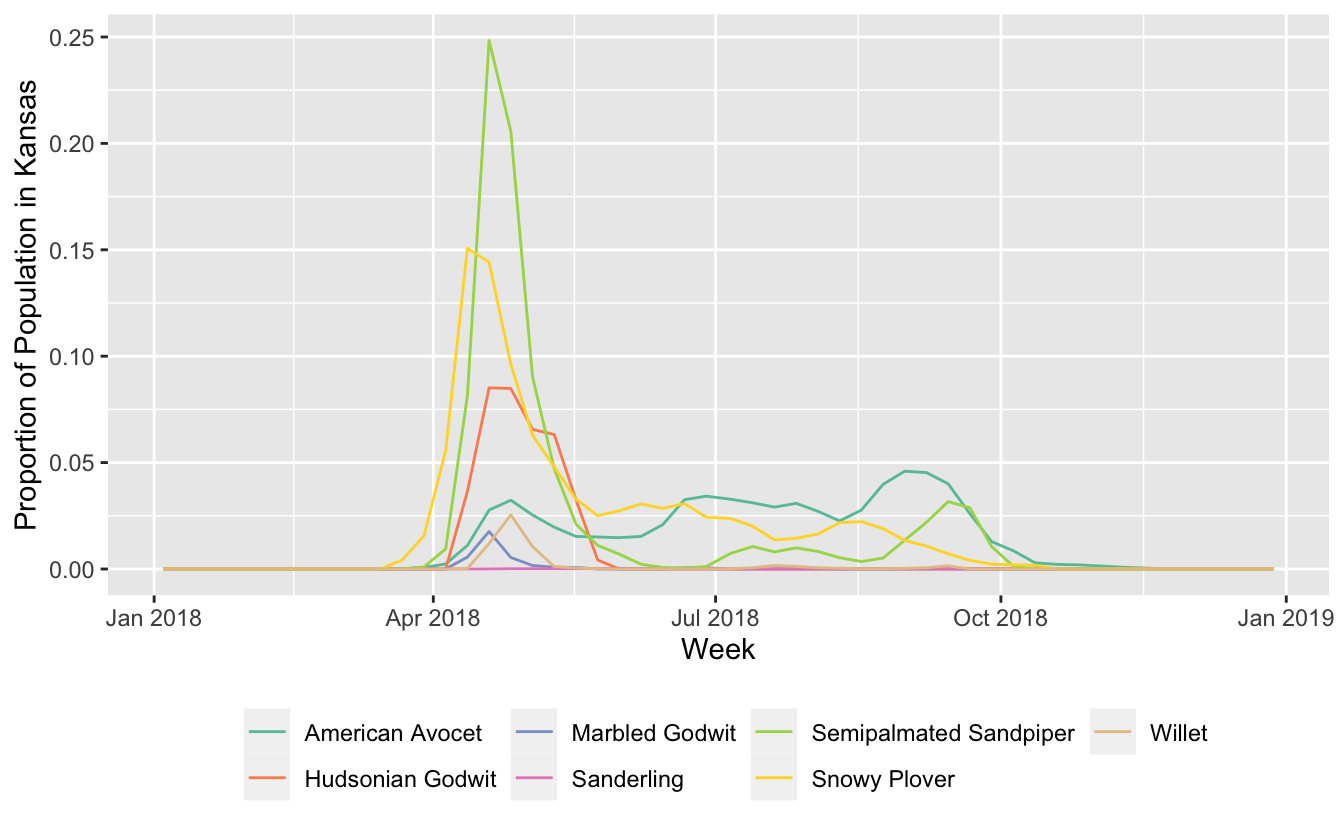
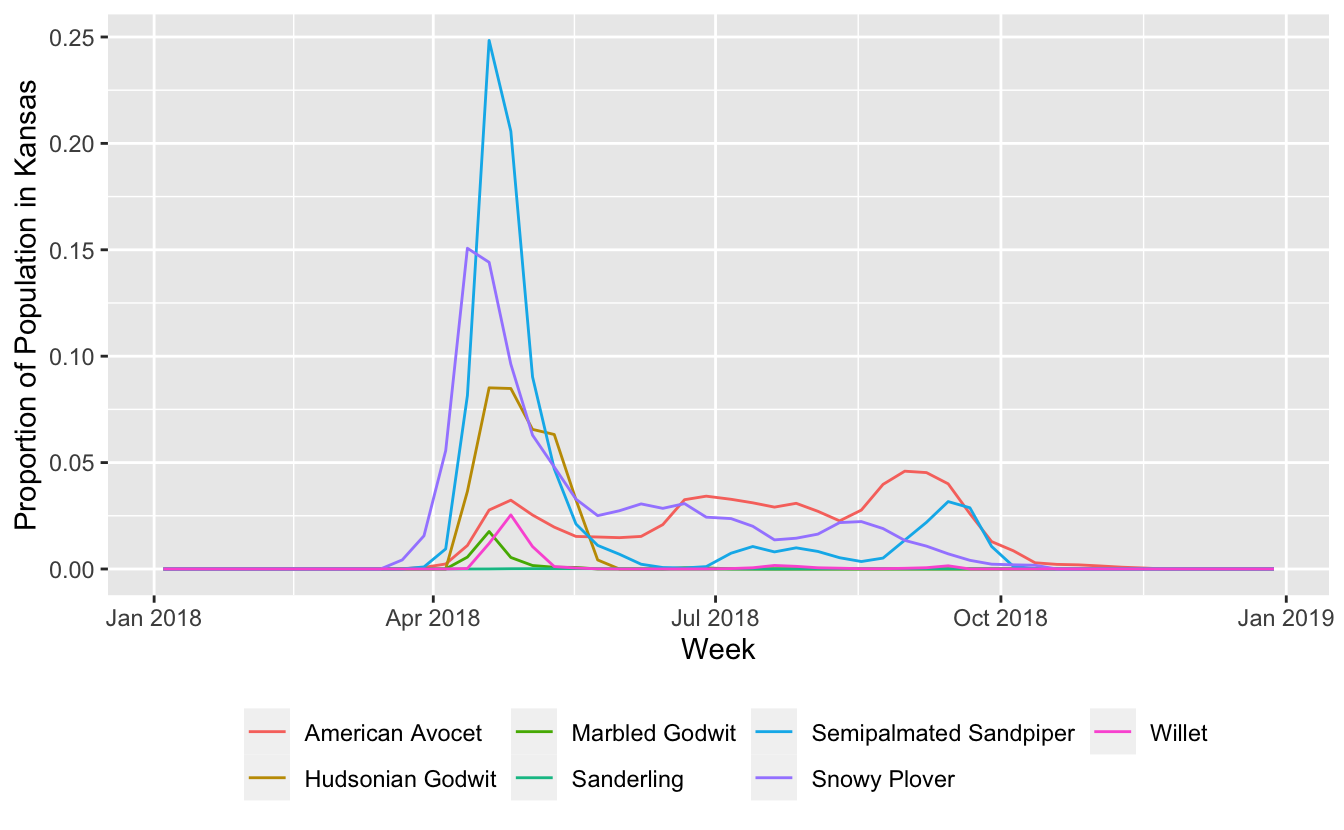
first draft done

diff --git a/docs/multi-species-trajectories.html b/docs/multi-species-trajectories.html
@@ -183,69 +183,78 @@ code span.wa { color: #60a0b0; font-weight: bold; font-style: italic; } /* Warni
 <h1><span class="header-section-number">Chapter 3</span> Multi-species Trajectories</h1>
 <div id="traj-objective" class="section level2">
 <h2><span class="header-section-number">3.1</span> Objective</h2>
-<p>To prepare data for multiple species and look at them both spatially and temporally, as species richness and proportion of population. This is an example of something you might do when prioritizing or targeting conservation and management of species groups.</p>
+<p>To prepare data for comparing Status and Trends data across multiple species. We’ll compute proportion of population trajectories for a suite of species.</p>
 </div>
 <div id="traj-intro" class="section level2">
 <h2><span class="header-section-number">3.2</span> Introduction</h2>
+<p>Comparing Status and Trends results between species requires extra caution because the models give <em>relative</em> rather than absolute abundance. Therefore the raw data cannot be directly compared between species because, for example, species differ in their detectability. To address this, we’ll convert relative abundance to proportion of population for each species by dividing by the total abundance summed across the entire range. In addition, in this lesson we’ll look at the temporal dimension of these data, plotting trajectories through time for a given region.</p>
+<p>Let’s start by loading the necessary packages for this lesson.</p>
 <div class="sourceCode" id="cb26"><pre class="sourceCode r"><code class="sourceCode r"><span id="cb26-1"><a href="multi-species-trajectories.html#cb26-1"></a><span class="kw">library</span>(ebirdst)</span>
 <span id="cb26-2"><a href="multi-species-trajectories.html#cb26-2"></a><span class="kw">library</span>(raster)</span>
 <span id="cb26-3"><a href="multi-species-trajectories.html#cb26-3"></a><span class="kw">library</span>(sf)</span>
 <span id="cb26-4"><a href="multi-species-trajectories.html#cb26-4"></a><span class="kw">library</span>(rnaturalearth)</span>
 <span id="cb26-5"><a href="multi-species-trajectories.html#cb26-5"></a><span class="kw">library</span>(tidyverse)</span>
 <span id="cb26-6"><a href="multi-species-trajectories.html#cb26-6"></a><span class="kw">library</span>(parallel)</span>
-<span id="cb26-7"><a href="multi-species-trajectories.html#cb26-7"></a>extract &lt;-<span class="st"> </span>raster<span class="op">::</span>extract</span>
-<span id="cb26-8"><a href="multi-species-trajectories.html#cb26-8"></a></span>
-<span id="cb26-9"><a href="multi-species-trajectories.html#cb26-9"></a><span class="co"># kansas boundary</span></span>
-<span id="cb26-10"><a href="multi-species-trajectories.html#cb26-10"></a>ks &lt;-<span class="st"> </span><span class="kw">ne_states</span>(<span class="dt">iso_a2 =</span> <span class="st">&quot;US&quot;</span>, <span class="dt">returnclass =</span> <span class="st">&quot;sf&quot;</span>) <span class="op">%&gt;%</span><span class="st"> </span></span>
-<span id="cb26-11"><a href="multi-species-trajectories.html#cb26-11"></a><span class="st">  </span><span class="kw">filter</span>(name <span class="op">==</span><span class="st"> &quot;Kansas&quot;</span>)</span></code></pre></div>
+<span id="cb26-7"><a href="multi-species-trajectories.html#cb26-7"></a>extract &lt;-<span class="st"> </span>raster<span class="op">::</span>extract</span></code></pre></div>
+<p>For this example, we’ll be looking at a suite of shorebird species in Kansas, so let’s also get a boundary polygon for that state.</p>
+<div class="sourceCode" id="cb27"><pre class="sourceCode r"><code class="sourceCode r"><span id="cb27-1"><a href="multi-species-trajectories.html#cb27-1"></a>ks &lt;-<span class="st"> </span><span class="kw">ne_states</span>(<span class="dt">iso_a2 =</span> <span class="st">&quot;US&quot;</span>, <span class="dt">returnclass =</span> <span class="st">&quot;sf&quot;</span>) <span class="op">%&gt;%</span><span class="st"> </span></span>
+<span id="cb27-2"><a href="multi-species-trajectories.html#cb27-2"></a><span class="st">  </span><span class="kw">filter</span>(name <span class="op">==</span><span class="st"> &quot;Kansas&quot;</span>)</span></code></pre></div>
 </div>
 <div id="traj-data" class="section level2">
 <h2><span class="header-section-number">3.3</span> Multi-species data</h2>
-<div class="sourceCode" id="cb27"><pre class="sourceCode r"><code class="sourceCode r"><span id="cb27-1"><a href="multi-species-trajectories.html#cb27-1"></a>species &lt;-<span class="st"> </span><span class="kw">c</span>(<span class="st">&quot;American Avocet&quot;</span>, <span class="st">&quot;Snowy Plover&quot;</span>, <span class="st">&quot;Hudsonian Godwit&quot;</span>, </span>
-<span id="cb27-2"><a href="multi-species-trajectories.html#cb27-2"></a>             <span class="st">&quot;Willet&quot;</span>, <span class="st">&quot;Marbled Godwit&quot;</span>, <span class="st">&quot;Sanderling&quot;</span>, </span>
-<span id="cb27-3"><a href="multi-species-trajectories.html#cb27-3"></a>             <span class="st">&quot;Semipalmated Sandpiper&quot;</span>)</span>
-<span id="cb27-4"><a href="multi-species-trajectories.html#cb27-4"></a>sp_dirs &lt;-<span class="st"> </span><span class="kw">map_chr</span>(species, ebirdst_download)</span></code></pre></div>
+<p>We begin by downloading data for a suite of 7 shorebird species that all spend at least a portion of the year within Kansas.</p>
+<div class="sourceCode" id="cb28"><pre class="sourceCode r"><code class="sourceCode r"><span id="cb28-1"><a href="multi-species-trajectories.html#cb28-1"></a>species &lt;-<span class="st"> </span><span class="kw">c</span>(<span class="st">&quot;American Avocet&quot;</span>, <span class="st">&quot;Snowy Plover&quot;</span>, <span class="st">&quot;Hudsonian Godwit&quot;</span>, </span>
+<span id="cb28-2"><a href="multi-species-trajectories.html#cb28-2"></a>             <span class="st">&quot;Willet&quot;</span>, <span class="st">&quot;Marbled Godwit&quot;</span>, <span class="st">&quot;Sanderling&quot;</span>, </span>
+<span id="cb28-3"><a href="multi-species-trajectories.html#cb28-3"></a>             <span class="st">&quot;Semipalmated Sandpiper&quot;</span>)</span>
+<span id="cb28-4"><a href="multi-species-trajectories.html#cb28-4"></a>sp_dirs &lt;-<span class="st"> </span><span class="kw">map_chr</span>(species, ebirdst_download)</span></code></pre></div>
 </div>
 <div id="traj-pop" class="section level2">
 <h2><span class="header-section-number">3.4</span> Proportion of population</h2>
-<div class="sourceCode" id="cb28"><pre class="sourceCode r"><code class="sourceCode r"><span id="cb28-1"><a href="multi-species-trajectories.html#cb28-1"></a>calculate_trajectory &lt;-<span class="st"> </span><span class="cf">function</span>(x, common_name, region) {</span>
-<span id="cb28-2"><a href="multi-species-trajectories.html#cb28-2"></a>  <span class="kw">message</span>(<span class="kw">names</span>(x))</span>
-<span id="cb28-3"><a href="multi-species-trajectories.html#cb28-3"></a>  <span class="co"># load and project weekly abundance</span></span>
-<span id="cb28-4"><a href="multi-species-trajectories.html#cb28-4"></a>  abd &lt;-<span class="st"> </span><span class="kw">load_raster</span>(<span class="st">&quot;abundance&quot;</span>, <span class="dt">path =</span> x)</span>
-<span id="cb28-5"><a href="multi-species-trajectories.html#cb28-5"></a>  r &lt;-<span class="st"> </span><span class="kw">st_transform</span>(region, <span class="dt">crs =</span> <span class="kw">st_crs</span>(abd))</span>
-<span id="cb28-6"><a href="multi-species-trajectories.html#cb28-6"></a>  </span>
-<span id="cb28-7"><a href="multi-species-trajectories.html#cb28-7"></a>  <span class="co"># total abundance within region</span></span>
-<span id="cb28-8"><a href="multi-species-trajectories.html#cb28-8"></a>  abd_region &lt;-<span class="st"> </span>abd <span class="op">%&gt;%</span><span class="st"> </span></span>
-<span id="cb28-9"><a href="multi-species-trajectories.html#cb28-9"></a><span class="st">    </span><span class="kw">crop</span>(r) <span class="op">%&gt;%</span><span class="st"> </span></span>
-<span id="cb28-10"><a href="multi-species-trajectories.html#cb28-10"></a><span class="st">    </span><span class="kw">extract</span>(r, <span class="dt">fun =</span> sum)</span>
-<span id="cb28-11"><a href="multi-species-trajectories.html#cb28-11"></a>  abd_region &lt;-<span class="st"> </span>abd_region[<span class="dv">1</span>, , drop =<span class="st"> </span><span class="ot">TRUE</span>]</span>
-<span id="cb28-12"><a href="multi-species-trajectories.html#cb28-12"></a>  </span>
-<span id="cb28-13"><a href="multi-species-trajectories.html#cb28-13"></a>  <span class="co"># calculate total range-wide abundance</span></span>
-<span id="cb28-14"><a href="multi-species-trajectories.html#cb28-14"></a>  abd_total &lt;-<span class="st"> </span><span class="kw">mclapply</span>(<span class="kw">seq.int</span>(<span class="kw">nlayers</span>(abd)),</span>
-<span id="cb28-15"><a href="multi-species-trajectories.html#cb28-15"></a>                        <span class="cf">function</span>(i) <span class="kw">cellStats</span>(abd[[i]], sum),</span>
-<span id="cb28-16"><a href="multi-species-trajectories.html#cb28-16"></a>                        <span class="dt">mc.preschedule =</span> <span class="ot">TRUE</span>, <span class="dt">mc.set.seed =</span> <span class="ot">TRUE</span>, </span>
-<span id="cb28-17"><a href="multi-species-trajectories.html#cb28-17"></a>                        <span class="dt">mc.cores =</span> <span class="kw">detectCores</span>()) <span class="op">%&gt;%</span><span class="st"> </span></span>
-<span id="cb28-18"><a href="multi-species-trajectories.html#cb28-18"></a><span class="st">    </span><span class="kw">unlist</span>()</span>
-<span id="cb28-19"><a href="multi-species-trajectories.html#cb28-19"></a>  </span>
-<span id="cb28-20"><a href="multi-species-trajectories.html#cb28-20"></a>  <span class="kw">data.frame</span>(<span class="dt">common_name =</span> common_name,</span>
-<span id="cb28-21"><a href="multi-species-trajectories.html#cb28-21"></a>             <span class="dt">date =</span> <span class="kw">parse_raster_dates</span>(abd),</span>
-<span id="cb28-22"><a href="multi-species-trajectories.html#cb28-22"></a>             <span class="dt">prop_pop =</span> abd_region <span class="op">/</span><span class="st"> </span>abd_total,</span>
-<span id="cb28-23"><a href="multi-species-trajectories.html#cb28-23"></a>             <span class="dt">row.names =</span> <span class="ot">NULL</span>)</span>
-<span id="cb28-24"><a href="multi-species-trajectories.html#cb28-24"></a>}</span>
-<span id="cb28-25"><a href="multi-species-trajectories.html#cb28-25"></a>trajectories &lt;-<span class="st"> </span><span class="kw">map2_dfr</span>(sp_dirs, <span class="kw">names</span>(sp_dirs), </span>
-<span id="cb28-26"><a href="multi-species-trajectories.html#cb28-26"></a>                         calculate_trajectory,</span>
-<span id="cb28-27"><a href="multi-species-trajectories.html#cb28-27"></a>                         <span class="dt">region =</span> ks)</span>
-<span id="cb28-28"><a href="multi-species-trajectories.html#cb28-28"></a><span class="kw">write_csv</span>(trajectories,  <span class="st">&quot;data/shorebird_pop-trajectories.csv&quot;</span>)</span></code></pre></div>
+<p>Our goal is to produce trajectories comparing the proportion of each species’ population within Kansas. For each species we need to:</p>
+<ol style="list-style-type: decimal">
+<li>Calculate the sum of the abundance within Kansas for each week</li>
+<li>Calculate the sum of the abundance across the entire range of the species for each week</li>
+<li>Calculate the proportion of the population as the ratio of the within Kansas abundance to the total abundance</li>
+</ol>
+<p>The below function performs these steps for a given species. Iterating over the full set of species is fairly computationally intensive, taking about 30 minutes on a modern laptop.</p>
+<div class="sourceCode" id="cb29"><pre class="sourceCode r"><code class="sourceCode r"><span id="cb29-1"><a href="multi-species-trajectories.html#cb29-1"></a>calculate_trajectory &lt;-<span class="st"> </span><span class="cf">function</span>(x, common_name, region) {</span>
+<span id="cb29-2"><a href="multi-species-trajectories.html#cb29-2"></a>  <span class="kw">message</span>(<span class="kw">names</span>(x))</span>
+<span id="cb29-3"><a href="multi-species-trajectories.html#cb29-3"></a>  <span class="co"># load and project weekly abundance</span></span>
+<span id="cb29-4"><a href="multi-species-trajectories.html#cb29-4"></a>  abd &lt;-<span class="st"> </span><span class="kw">load_raster</span>(<span class="st">&quot;abundance&quot;</span>, <span class="dt">path =</span> x)</span>
+<span id="cb29-5"><a href="multi-species-trajectories.html#cb29-5"></a>  r &lt;-<span class="st"> </span><span class="kw">st_transform</span>(region, <span class="dt">crs =</span> <span class="kw">st_crs</span>(abd))</span>
+<span id="cb29-6"><a href="multi-species-trajectories.html#cb29-6"></a>  </span>
+<span id="cb29-7"><a href="multi-species-trajectories.html#cb29-7"></a>  <span class="co"># total abundance within region</span></span>
+<span id="cb29-8"><a href="multi-species-trajectories.html#cb29-8"></a>  abd_region &lt;-<span class="st"> </span>abd <span class="op">%&gt;%</span><span class="st"> </span></span>
+<span id="cb29-9"><a href="multi-species-trajectories.html#cb29-9"></a><span class="st">    </span><span class="kw">crop</span>(r) <span class="op">%&gt;%</span><span class="st"> </span></span>
+<span id="cb29-10"><a href="multi-species-trajectories.html#cb29-10"></a><span class="st">    </span><span class="kw">extract</span>(r, <span class="dt">fun =</span> sum)</span>
+<span id="cb29-11"><a href="multi-species-trajectories.html#cb29-11"></a>  abd_region &lt;-<span class="st"> </span>abd_region[<span class="dv">1</span>, , drop =<span class="st"> </span><span class="ot">TRUE</span>]</span>
+<span id="cb29-12"><a href="multi-species-trajectories.html#cb29-12"></a>  </span>
+<span id="cb29-13"><a href="multi-species-trajectories.html#cb29-13"></a>  <span class="co"># calculate total range-wide abundance</span></span>
+<span id="cb29-14"><a href="multi-species-trajectories.html#cb29-14"></a>  abd_total &lt;-<span class="st"> </span><span class="kw">mclapply</span>(<span class="kw">seq.int</span>(<span class="kw">nlayers</span>(abd)),</span>
+<span id="cb29-15"><a href="multi-species-trajectories.html#cb29-15"></a>                        <span class="cf">function</span>(i) <span class="kw">cellStats</span>(abd[[i]], sum),</span>
+<span id="cb29-16"><a href="multi-species-trajectories.html#cb29-16"></a>                        <span class="dt">mc.preschedule =</span> <span class="ot">TRUE</span>, <span class="dt">mc.set.seed =</span> <span class="ot">TRUE</span>, </span>
+<span id="cb29-17"><a href="multi-species-trajectories.html#cb29-17"></a>                        <span class="dt">mc.cores =</span> <span class="kw">detectCores</span>()) <span class="op">%&gt;%</span><span class="st"> </span></span>
+<span id="cb29-18"><a href="multi-species-trajectories.html#cb29-18"></a><span class="st">    </span><span class="kw">unlist</span>()</span>
+<span id="cb29-19"><a href="multi-species-trajectories.html#cb29-19"></a>  </span>
+<span id="cb29-20"><a href="multi-species-trajectories.html#cb29-20"></a>  <span class="kw">data.frame</span>(<span class="dt">common_name =</span> common_name,</span>
+<span id="cb29-21"><a href="multi-species-trajectories.html#cb29-21"></a>             <span class="dt">date =</span> <span class="kw">parse_raster_dates</span>(abd),</span>
+<span id="cb29-22"><a href="multi-species-trajectories.html#cb29-22"></a>             <span class="dt">prop_pop =</span> abd_region <span class="op">/</span><span class="st"> </span>abd_total,</span>
+<span id="cb29-23"><a href="multi-species-trajectories.html#cb29-23"></a>             <span class="dt">row.names =</span> <span class="ot">NULL</span>)</span>
+<span id="cb29-24"><a href="multi-species-trajectories.html#cb29-24"></a>}</span>
+<span id="cb29-25"><a href="multi-species-trajectories.html#cb29-25"></a>trajectories &lt;-<span class="st"> </span><span class="kw">map2_dfr</span>(sp_dirs, <span class="kw">names</span>(sp_dirs), </span>
+<span id="cb29-26"><a href="multi-species-trajectories.html#cb29-26"></a>                         calculate_trajectory,</span>
+<span id="cb29-27"><a href="multi-species-trajectories.html#cb29-27"></a>                         <span class="dt">region =</span> ks)</span>
+<span id="cb29-28"><a href="multi-species-trajectories.html#cb29-28"></a><span class="kw">write_csv</span>(trajectories,  <span class="st">&quot;data/shorebird_pop-trajectories.csv&quot;</span>)</span></code></pre></div>
 </div>
 <div id="traj-traj" class="section level2">
 <h2><span class="header-section-number">3.5</span> Trajectories</h2>
-<div class="sourceCode" id="cb29"><pre class="sourceCode r"><code class="sourceCode r"><span id="cb29-1"><a href="multi-species-trajectories.html#cb29-1"></a><span class="kw">ggplot</span>(trajectories, <span class="kw">aes</span>(date, prop_pop, <span class="dt">color =</span> common_name)) <span class="op">+</span></span>
-<span id="cb29-2"><a href="multi-species-trajectories.html#cb29-2"></a><span class="st">  </span><span class="kw">geom_line</span>() <span class="op">+</span></span>
-<span id="cb29-3"><a href="multi-species-trajectories.html#cb29-3"></a><span class="st">  </span><span class="kw">labs</span>(<span class="dt">x =</span> <span class="st">&quot;Week&quot;</span>, </span>
-<span id="cb29-4"><a href="multi-species-trajectories.html#cb29-4"></a>       <span class="dt">y =</span> <span class="st">&quot;Proportion of Population in Kansas&quot;</span>,</span>
-<span id="cb29-5"><a href="multi-species-trajectories.html#cb29-5"></a>       <span class="dt">color =</span> <span class="ot">NULL</span>) <span class="op">+</span></span>
-<span id="cb29-6"><a href="multi-species-trajectories.html#cb29-6"></a><span class="st">  </span><span class="kw">scale_color_brewer</span>(<span class="dt">palette =</span> <span class="st">&quot;Set2&quot;</span>) <span class="op">+</span></span>
-<span id="cb29-7"><a href="multi-species-trajectories.html#cb29-7"></a><span class="st">  </span><span class="kw">theme</span>(<span class="dt">legend.position =</span> <span class="st">&quot;bottom&quot;</span>)</span></code></pre></div>
+<p>Now we can plot these trajectories for the set of shorebird species.</p>
+<div class="sourceCode" id="cb30"><pre class="sourceCode r"><code class="sourceCode r"><span id="cb30-1"><a href="multi-species-trajectories.html#cb30-1"></a><span class="kw">ggplot</span>(trajectories, <span class="kw">aes</span>(date, prop_pop, <span class="dt">color =</span> common_name)) <span class="op">+</span></span>
+<span id="cb30-2"><a href="multi-species-trajectories.html#cb30-2"></a><span class="st">  </span><span class="kw">geom_line</span>() <span class="op">+</span></span>
+<span id="cb30-3"><a href="multi-species-trajectories.html#cb30-3"></a><span class="st">  </span><span class="kw">labs</span>(<span class="dt">x =</span> <span class="st">&quot;Week&quot;</span>, </span>
+<span id="cb30-4"><a href="multi-species-trajectories.html#cb30-4"></a>       <span class="dt">y =</span> <span class="st">&quot;Proportion of Population in Kansas&quot;</span>,</span>
+<span id="cb30-5"><a href="multi-species-trajectories.html#cb30-5"></a>       <span class="dt">color =</span> <span class="ot">NULL</span>) <span class="op">+</span></span>
+<span id="cb30-6"><a href="multi-species-trajectories.html#cb30-6"></a><span class="st">  </span><span class="kw">theme</span>(<span class="dt">legend.position =</span> <span class="st">&quot;bottom&quot;</span>)</span></code></pre></div>
 <p><img src="naoc2020-ebirdst_files/figure-html/traj-traj-1.png" width="\textwidth" style="display: block; margin: auto;" /></p>
 
 </div>

diff --git a/docs/access.html b/docs/access.html
@@ -183,7 +183,7 @@ code span.wa { color: #60a0b0; font-weight: bold; font-style: italic; } /* Warni
 <h1><span class="header-section-number">Chapter 1</span> Data Access</h1>
 <div id="objective" class="section level2">
 <h2><span class="header-section-number">1.1</span> Objective</h2>
-<p>In this lesson, we’ll learn how to download eBird Status &amp; Trends data using the R package <a href="https://cornelllabofornithology.github.io/ebirdst/"><code>ebirdst</code></a>, load them into R and make a simple map.</p>
+<p>To download eBird Status &amp; Trends data using the R package <a href="https://cornelllabofornithology.github.io/ebirdst/"><code>ebirdst</code></a>, load those data into R and make a simple map.</p>
 </div>
 <div id="intro" class="section level2">
 <h2><span class="header-section-number">1.2</span> Introduction</h2>
@@ -199,20 +199,20 @@ code span.wa { color: #60a0b0; font-weight: bold; font-style: italic; } /* Warni
 <div class="sourceCode" id="cb3"><pre class="sourceCode r"><code class="sourceCode r"><span id="cb3-1"><a href="access.html#cb3-1"></a><span class="kw">glimpse</span>(ebirdst_runs)</span>
 <span id="cb3-2"><a href="access.html#cb3-2"></a><span class="co">#&gt; Rows: 610</span></span>
 <span id="cb3-3"><a href="access.html#cb3-3"></a><span class="co">#&gt; Columns: 14</span></span>
-<span id="cb3-4"><a href="access.html#cb3-4"></a><span class="co">#&gt; $ species_code                    [3m[90m&lt;chr&gt;[39m[23m &quot;bbwduc&quot;, &quot;fuwduc&quot;, &quot;empgoo&quot;, &quot;snogoo&quot;, &quot;ro…</span></span>
-<span id="cb3-5"><a href="access.html#cb3-5"></a><span class="co">#&gt; $ run_name                        [3m[90m&lt;chr&gt;[39m[23m &quot;bbwduc-ERD2018-EBIRD_SCIENCE-20191105-dc39…</span></span>
-<span id="cb3-6"><a href="access.html#cb3-6"></a><span class="co">#&gt; $ scientific_name                 [3m[90m&lt;chr&gt;[39m[23m &quot;Dendrocygna autumnalis&quot;, &quot;Dendrocygna bico…</span></span>
-<span id="cb3-7"><a href="access.html#cb3-7"></a><span class="co">#&gt; $ common_name                     [3m[90m&lt;chr&gt;[39m[23m &quot;Black-bellied Whistling-Duck&quot;, &quot;Fulvous Wh…</span></span>
-<span id="cb3-8"><a href="access.html#cb3-8"></a><span class="co">#&gt; $ breeding_start_dt               [3m[90m&lt;date&gt;[39m[23m 2018-05-24, 2018-05-10, 2018-05-24, 2018-0…</span></span>
-<span id="cb3-9"><a href="access.html#cb3-9"></a><span class="co">#&gt; $ breeding_end_dt                 [3m[90m&lt;date&gt;[39m[23m 2018-08-03, 2018-08-17, 2018-06-21, 2018-0…</span></span>
-<span id="cb3-10"><a href="access.html#cb3-10"></a><span class="co">#&gt; $ nonbreeding_start_dt            [3m[90m&lt;date&gt;[39m[23m 2018-01-18, 2018-11-30, NA, 2018-12-28, 20…</span></span>
-<span id="cb3-11"><a href="access.html#cb3-11"></a><span class="co">#&gt; $ nonbreeding_end_dt              [3m[90m&lt;date&gt;[39m[23m 2018-03-01, 2018-02-15, NA, 2018-01-11, 20…</span></span>
-<span id="cb3-12"><a href="access.html#cb3-12"></a><span class="co">#&gt; $ postbreeding_migration_start_dt [3m[90m&lt;date&gt;[39m[23m 2018-08-10, 2018-08-24, NA, 2018-08-24, 20…</span></span>
-<span id="cb3-13"><a href="access.html#cb3-13"></a><span class="co">#&gt; $ postbreeding_migration_end_dt   [3m[90m&lt;date&gt;[39m[23m 2018-01-11, 2018-11-23, NA, 2018-12-21, 20…</span></span>
-<span id="cb3-14"><a href="access.html#cb3-14"></a><span class="co">#&gt; $ prebreeding_migration_start_dt  [3m[90m&lt;date&gt;[39m[23m 2018-03-08, 2018-02-22, NA, 2018-01-18, 20…</span></span>
-<span id="cb3-15"><a href="access.html#cb3-15"></a><span class="co">#&gt; $ prebreeding_migration_end_dt    [3m[90m&lt;date&gt;[39m[23m 2018-05-17, 2018-05-03, NA, 2018-05-31, 20…</span></span>
-<span id="cb3-16"><a href="access.html#cb3-16"></a><span class="co">#&gt; $ year_round_start_dt             [3m[90m&lt;date&gt;[39m[23m NA, NA, NA, NA, NA, NA, NA, NA, NA, 2018-0…</span></span>
-<span id="cb3-17"><a href="access.html#cb3-17"></a><span class="co">#&gt; $ year_round_end_dt               [3m[90m&lt;date&gt;[39m[23m NA, NA, NA, NA, NA, NA, NA, NA, NA, 2018-1…</span></span></code></pre></div>
+<span id="cb3-4"><a href="access.html#cb3-4"></a><span class="co">#&gt; $ species_code                    &lt;chr&gt; &quot;bbwduc&quot;, &quot;fuwduc&quot;, &quot;empgoo&quot;, &quot;snogoo&quot;, &quot;ro…</span></span>
+<span id="cb3-5"><a href="access.html#cb3-5"></a><span class="co">#&gt; $ run_name                        &lt;chr&gt; &quot;bbwduc-ERD2018-EBIRD_SCIENCE-20191105-dc39…</span></span>
+<span id="cb3-6"><a href="access.html#cb3-6"></a><span class="co">#&gt; $ scientific_name                 &lt;chr&gt; &quot;Dendrocygna autumnalis&quot;, &quot;Dendrocygna bico…</span></span>
+<span id="cb3-7"><a href="access.html#cb3-7"></a><span class="co">#&gt; $ common_name                     &lt;chr&gt; &quot;Black-bellied Whistling-Duck&quot;, &quot;Fulvous Wh…</span></span>
+<span id="cb3-8"><a href="access.html#cb3-8"></a><span class="co">#&gt; $ breeding_start_dt               &lt;date&gt; 2018-05-24, 2018-05-10, 2018-05-24, 2018-0…</span></span>
+<span id="cb3-9"><a href="access.html#cb3-9"></a><span class="co">#&gt; $ breeding_end_dt                 &lt;date&gt; 2018-08-03, 2018-08-17, 2018-06-21, 2018-0…</span></span>
+<span id="cb3-10"><a href="access.html#cb3-10"></a><span class="co">#&gt; $ nonbreeding_start_dt            &lt;date&gt; 2018-01-18, 2018-11-30, NA, 2018-12-28, 20…</span></span>
+<span id="cb3-11"><a href="access.html#cb3-11"></a><span class="co">#&gt; $ nonbreeding_end_dt              &lt;date&gt; 2018-03-01, 2018-02-15, NA, 2018-01-11, 20…</span></span>
+<span id="cb3-12"><a href="access.html#cb3-12"></a><span class="co">#&gt; $ postbreeding_migration_start_dt &lt;date&gt; 2018-08-10, 2018-08-24, NA, 2018-08-24, 20…</span></span>
+<span id="cb3-13"><a href="access.html#cb3-13"></a><span class="co">#&gt; $ postbreeding_migration_end_dt   &lt;date&gt; 2018-01-11, 2018-11-23, NA, 2018-12-21, 20…</span></span>
+<span id="cb3-14"><a href="access.html#cb3-14"></a><span class="co">#&gt; $ prebreeding_migration_start_dt  &lt;date&gt; 2018-03-08, 2018-02-22, NA, 2018-01-18, 20…</span></span>
+<span id="cb3-15"><a href="access.html#cb3-15"></a><span class="co">#&gt; $ prebreeding_migration_end_dt    &lt;date&gt; 2018-05-17, 2018-05-03, NA, 2018-05-31, 20…</span></span>
+<span id="cb3-16"><a href="access.html#cb3-16"></a><span class="co">#&gt; $ year_round_start_dt             &lt;date&gt; NA, NA, NA, NA, NA, NA, NA, NA, NA, 2018-0…</span></span>
+<span id="cb3-17"><a href="access.html#cb3-17"></a><span class="co">#&gt; $ year_round_end_dt               &lt;date&gt; NA, NA, NA, NA, NA, NA, NA, NA, NA, 2018-1…</span></span></code></pre></div>
 <p>If you’re working in RStudio, you can use <code>View()</code> to interactively explore this data frame. You can also consult the <a href="https://ebird.org/science/status-and-trends">Status and Trends</a> landing page to see the full list of species.</p>
 <p>These seasonal dates are defined through a process of expert review of the weekly Status and Trends maps and define the start and end weeks of each of the following seasons: breeding, non-breeding, pre-breeding migration, and post-breeding migration. If dates are missing for a given season, it means the species did not pass the review process for that season.</p>
 </div>

diff --git a/docs/site-selection.html b/docs/site-selection.html
@@ -183,7 +183,7 @@ code span.wa { color: #60a0b0; font-weight: bold; font-style: italic; } /* Warni
 <h1><span class="header-section-number">Chapter 2</span> Site Selection</h1>
 <div id="site-objective" class="section level2">
 <h2><span class="header-section-number">2.1</span> Objective</h2>
-<p>In this lesson, we’ll learn how to use eBird Status &amp; Trends data to identify important sites for Loggerhead Shrike during the breeding season at different spatial scales. This is an example of an analysis you might do to prioritize sites for a species, perhaps for conservation or management.</p>
+<p>To use eBird Status &amp; Trends data to identify important sites for Loggerhead Shrike during the breeding season at different spatial scales. This is an example of an analysis you might do to prioritize sites for a species, perhaps for conservation or management.</p>
 </div>
 <div id="site-intro" class="section level2">
 <h2><span class="header-section-number">2.2</span> Introduction</h2>
